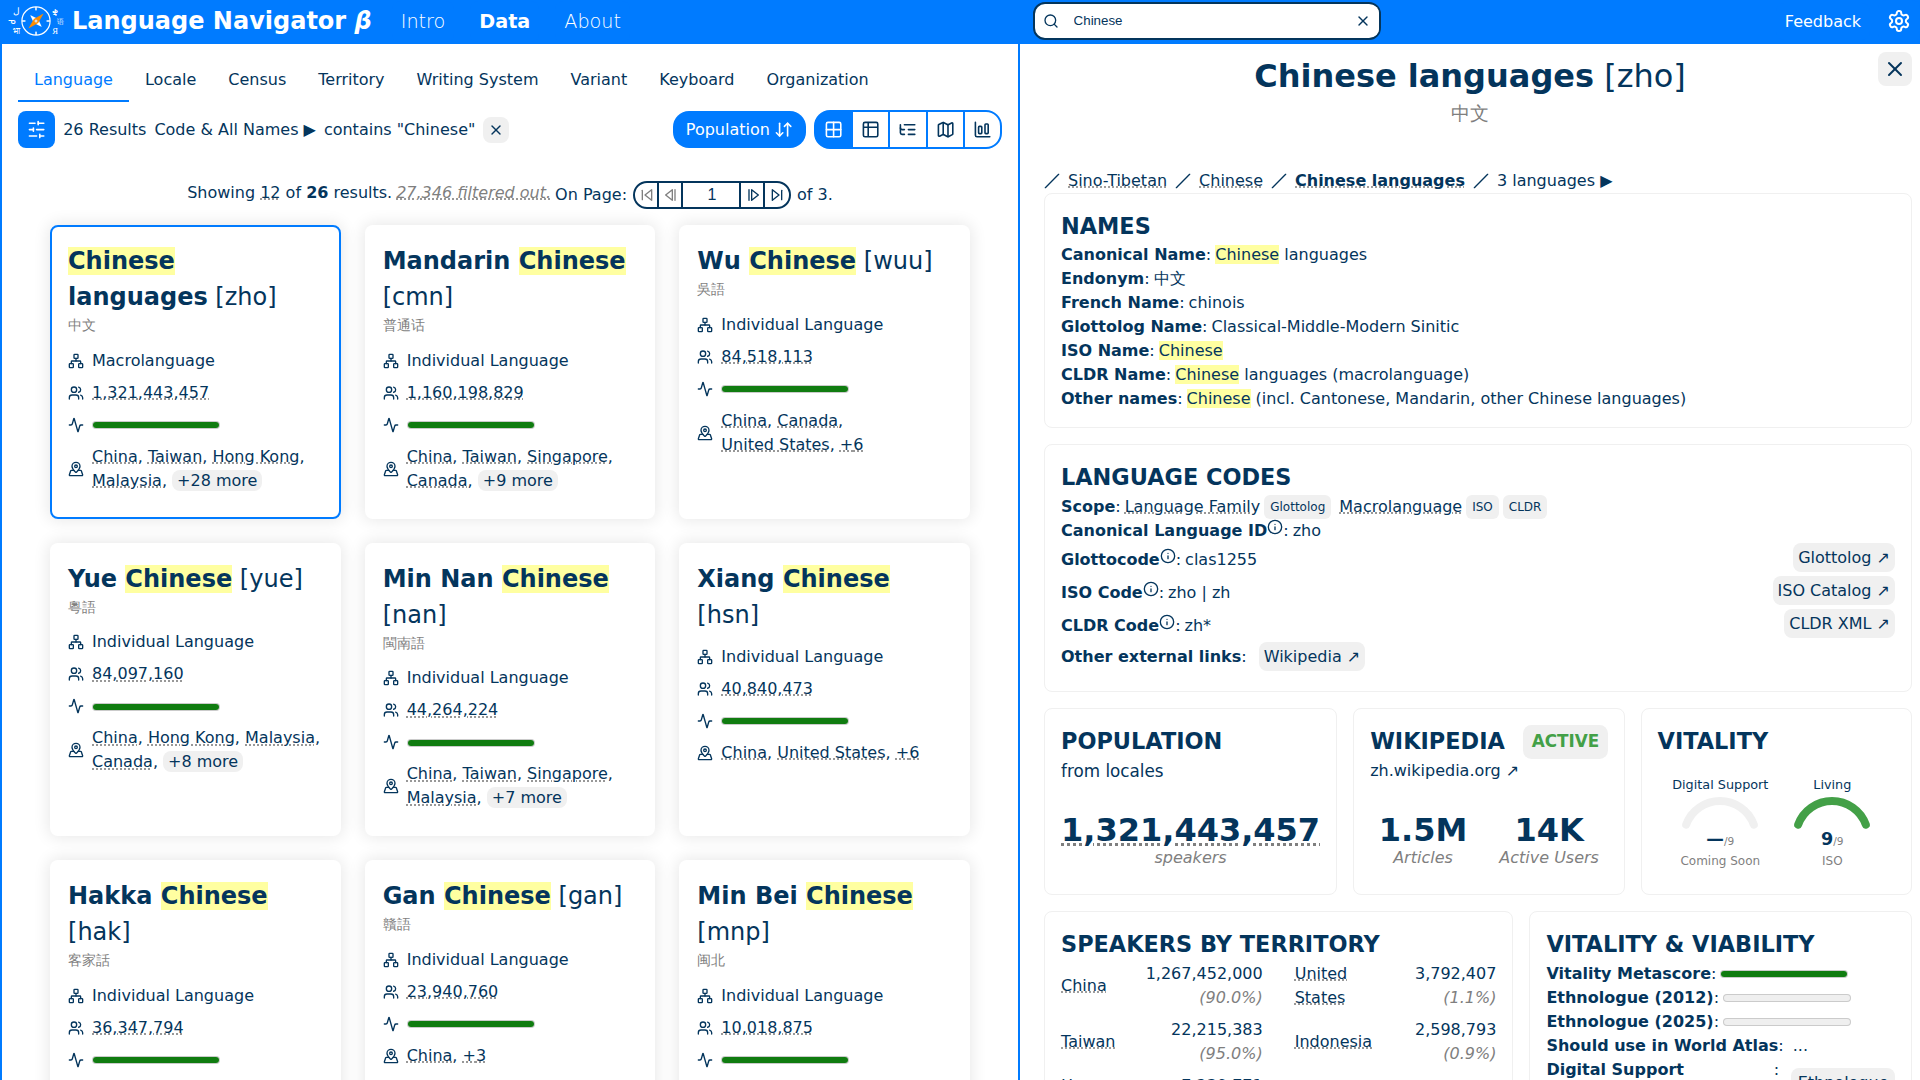
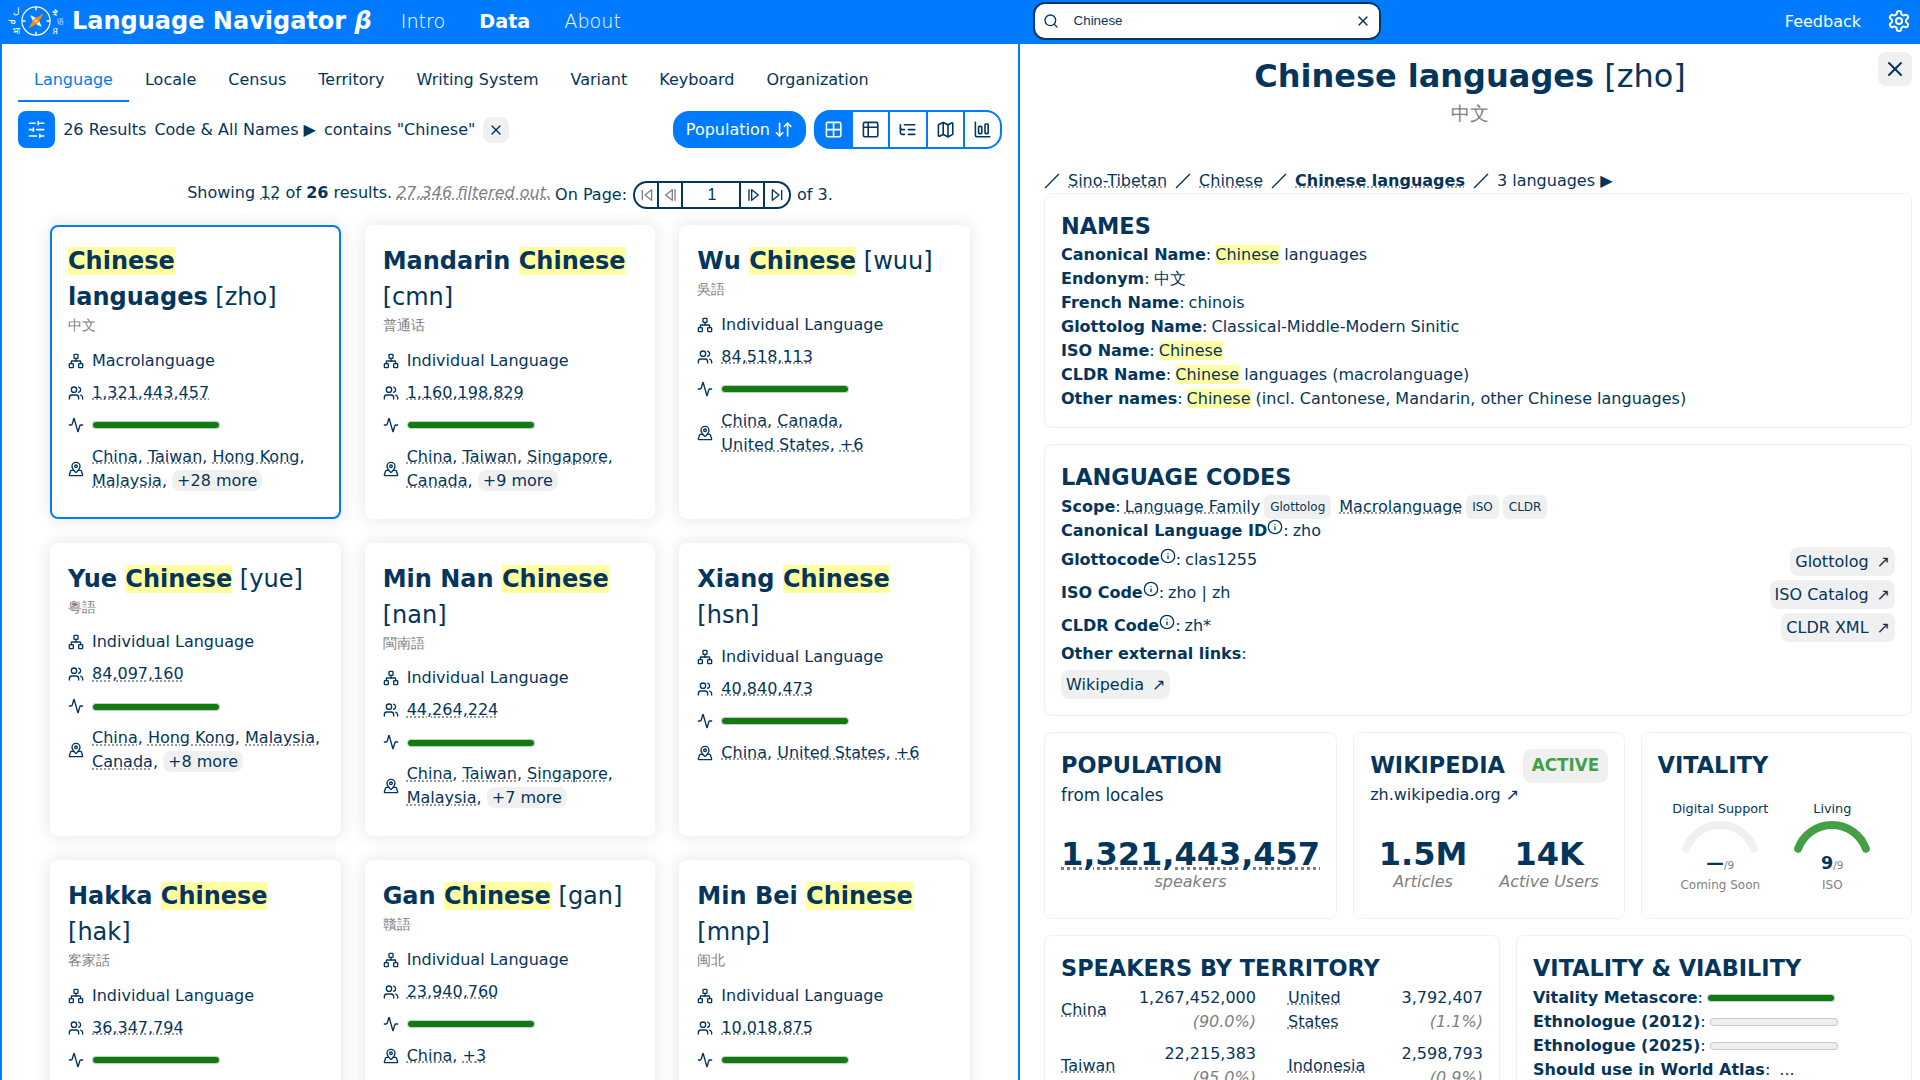
Add entry for user survey (#712)
Fixes #676

Summary: Added a survey prompt to the feedback form following the design
document.

### Changes

- User experience
- Added a "Take 2-min Survey" button to the feedback dialog that opens a
Google Form in a new tab- Logical changes
- Restructured the feedback form to show the survey prompt first, with
the existing email form below
- Logical Changes
  - Changed each button to LinkButton from HoverableButton
- Data
  - None
- Refactors
  - Moved the email body after the OR to a separate file
  - Updated LinkButton Styling

Out of scope/Future work: Tracking whether users have already completed
the survey

### Test Plan and Screenshots

How to test the changes in this PR: Go to the lang nav site and open the
feedback button. Test that clicking on the survey button takes you to a
google form and test that sending an email still works the same.

| Description of Changes | Screenshot Before | Screenshot After |
| ---------------------- | ----------------- | ---------------- |
| Feedback Form Changed to follow design document | <img width="324"
height="322" alt="image"
src="https://github.com/user-attachments/assets/e1148eaf-cd33-446c-8c6e-ccd6ef7cbe84"
/> | <img width="327" height="497" alt="image"
src="https://github.com/user-attachments/assets/64b080c9-7ddd-417b-b005-46c1d65c188e"
/> |

# Checklist

Feel free to check off or just delete items in this section as you have
completed them.

## Summary

- [X] Clear description of what and why
[…]

Pull request: Add entry for user survey
Fixes #676

Summary: Added a survey prompt to the feedback form following the design document. 

### Changes

- User experience
  - Added a "Take 2-min Survey" button to the feedback dialog that opens a Google Form in a new tab- Logical changes
  - Restructured the feedback form to show the survey prompt first, with the existing email form below
- Logical Changes
  - None
- Data
  - None
- Refactors
  - None

Out of scope/Future work: Tracking whether users have already completed the survey

### Test Plan and Screenshots

How to test the changes in this PR: Go to the lang nav site and open the feedback button. Test that clicking on the survey button takes you to a google form and test that sending an email still works the same.

| Description of Changes | Screenshot Before | Screenshot After |
| ---------------------- | ----------------- | ---------------- |
|       Feedback Form Changed to follow design document      |     <img width="324" height="322" alt="image" src="https://github.com/user-attachments/assets/e1148eaf-cd33-446c-8c6e-ccd6ef7cbe84" />     |          <img width="327" height="497" alt="image" src="https://github.com/user-attachments/assets/64b080c9-7ddd-417b-b005-46c1d65c188e" />       |

# Checklist

Feel free to check off or just delete items in this section as you have completed them.

## Summary

- [X] Clear description of what and why
- [X] Scope kept focused; note follow-ups if any
- [X] Set yourself as assignee
[…]

diff --git a/src/features/feedback/FeedbackForm.tsx b/src/features/feedback/FeedbackForm.tsx
@@ -1,102 +1,36 @@
-import { MailIcon } from 'lucide-react';
-import { useState } from 'react';
+import { MessageSquareTextIcon } from 'lucide-react';
 
-import HoverableButton from '@features/layers/hovercard/HoverableButton';
 import PopupCard from '@features/layers/popupcard/PopupCard';
 
-import { getFeedbackEmailBody } from './getFeedbackEmailBody';
+import LinkButton from '@shared/ui/LinkButton';
 
-const FEEDBACK_EMAIL = '[email redacted]';
+import { FeedbackEmailForm } from './FeedbackEmailForm';
+
+const SURVEY_LINK = 'https://forms.gle/a4Zr2dkdc1TiEAdq6';
 
 export function FeedbackForm() {
-  const [type, setType] = useState('General feedback');
-  const [message, setMessage] = useState('');
-
-  const handleSubmit = () => {
-    const subject = `[LangNav Feedback] ${type}`;
-    const body = getFeedbackEmailBody({ type, message });
-
-    const mailtoUrl =
-      `mailto:${FEEDBACK_EMAIL}` +
-      `?subject=${encodeURIComponent(subject)}` +
-      `&body=${encodeURIComponent(body)}`;
-
-    window.location.href = mailtoUrl;
-  };
-
   return (
     <PopupCard
       buttonLabel="Feedback"
       buttonClassName="primary"
       buttonStyle={{ padding: '0.5em' }}
       description="Submit feedback to the LangNav team"
-      title="Send feedback"
+      title="Shape the future of LangNav"
       body={
-        <div style={{ display: 'flex', flexDirection: 'column', gap: '1em', width: '300px' }}>
-          <div style={{ display: 'flex', flexDirection: 'column', gap: '0.25em' }}>
-            <label style={{ fontWeight: 500, color: 'var(--color-text-secondary)' }}>Type</label>
-            <select
-              value={type}
-              onChange={(e) => setType(e.target.value)}
-              style={{
-                padding: '0.5em',
-                border: '1px solid var(--color-shadow)',
-                borderRadius: '0.5em',
-                color: 'var(--color-text)',
-                backgroundColor: 'var(--color-background)',
-              }}
-            >
-              <option>Bug</option>
-              <option>Data issue</option>
-              <option>Feature request</option>
-              <option>General feedback</option>
-            </select>
+        <div style={{ display: 'flex', flexDirection: 'column', gap: '0.25em', width: '300px' }}>
+          <label>Tell us about your goals, rate our data, and help us build better futures.</label>
+          <LinkButton href={SURVEY_LINK} title="Submit a Google survey">
+            <MessageSquareTextIcon display="block" size="1em" />
+            Take 2-min Survey
+          </LinkButton>
+          <div style={{ display: 'flex', alignItems: 'center', gap: '0.5em' }}>
+            <hr style={{ flex: 1 }} />
+            <span>OR</span>
+            <hr style={{ flex: 1 }} />
           </div>
-
-          <div style={{ display: 'flex', flexDirection: 'column', gap: '0.25em' }}>
-            <label style={{ fontWeight: 500, color: 'var(--color-text-secondary)' }}>Message</label>
-            <textarea
-              rows={5}
-              value={message}
-              onChange={(e) => setMessage(e.target.value)}
-              placeholder="What did you notice or suggest?"
-              style={{
-                padding: '0.5em',
-                color: 'var(--color-text)',
-                backgroundColor: 'var(--color-background)',
-                border: '1px solid var(--color-shadow)',
-                borderRadius: '0.5em',
-                resize: 'vertical',
-              }}
-            />
-          </div>
+          <FeedbackEmailForm />
         </div>
       }
-      ctas={[
-        <HoverableButton
-          key="submit"
-          buttonType="submit"
-          className={message.trim() ? 'primary' : ''}
-          onClick={() => message.trim() && handleSubmit()}
-          hoverContent={
-            message.trim()
-              ? 'Open your email client to send this feedback'
-              : 'Please enter a message'
-          }
-          style={{
-            backgroundColor: message.trim()
-              ? 'var(--color-button-primary)'
-              : 'var(--color-button-secondary)',
-            color: message.trim() ? 'var(--color-text-on-color)' : 'var(--color-text-secondary)',
-            display: 'flex',
-            alignItems: 'center',
-            gap: '0.5em',
-          }}
-        >
-          Open email
-          <MailIcon display="block" size="1em" />
-        </HoverableButton>,
-      ]}
     />
   );
 }

diff --git a/src/features/feedback/FeedbackEmailForm.tsx b/src/features/feedback/FeedbackEmailForm.tsx
@@ -1,0 +1,69 @@
+import { MailIcon } from 'lucide-react';
+import { useState } from 'react';
+
+import LinkButton from '@shared/ui/LinkButton';
+
+import { getFeedbackEmailBody } from './getFeedbackEmailBody';
+
+const FEEDBACK_EMAIL = '[email redacted]';
+
+export function FeedbackEmailForm() {
+  const [type, setType] = useState('General feedback');
+  const [message, setMessage] = useState('');
+
+  const subject = `[LangNav Feedback] ${type}`;
+  const body = getFeedbackEmailBody({ type, message });
+
+  const mailtoUrl =
+    `mailto:${FEEDBACK_EMAIL}` +
+    `?subject=${encodeURIComponent(subject)}` +
+    `&body=${encodeURIComponent(body)}`;
+
+  return (
+    <div>
+      <div style={{ display: 'flex', flexDirection: 'column' }}>
+        <label>Report a specific Issue</label>
+      </div>
+      <div style={{ display: 'flex', flexDirection: 'column', gap: '0.25em' }}>
+        <label style={{ fontWeight: 500, color: 'var(--color-text-secondary)' }}>Type</label>
+        <select
+          value={type}
+          onChange={(e) => setType(e.target.value)}
+          style={{
+            padding: '0.5em',
+            border: '1px solid var(--color-shadow)',
+            borderRadius: '0.5em',
+            color: 'var(--color-text)',
+            backgroundColor: 'var(--color-background)',
+          }}
+        >
+          <option>Bug</option>
+          <option>Data issue</option>
+          <option>Feature request</option>
+          <option>General feedback</option>
+        </select>
+      </div>
+      <div style={{ display: 'flex', flexDirection: 'column', gap: '0.25em' }}>
+        <label style={{ fontWeight: 500, color: 'var(--color-text-secondary)' }}>Message</label>
+        <textarea
+          rows={5}
+          value={message}
+          onChange={(e) => setMessage(e.target.value)}
+          placeholder="What did you notice or suggest?"
+          style={{
+            padding: '0.5em',
+            color: 'var(--color-text)',
+            backgroundColor: 'var(--color-background)',
+            border: '1px solid var(--color-shadow)',
+            borderRadius: '0.5em',
+            resize: 'vertical',
+          }}
+        />
+      </div>
+      <LinkButton href={mailtoUrl} title="Send us an email!">
+        <MailIcon display="block" size="1em" />
+        Open email
+      </LinkButton>
+    </div>
+  );
+}

diff --git a/src/shared/ui/LinkButton.tsx b/src/shared/ui/LinkButton.tsx
@@ -10,13 +10,22 @@ type Props = {
  */
 export default function LinkButton({ href, children, title }: React.PropsWithChildren<Props>) {
   return (
-    <a href={href} target="_blank" rel="noopener noreferrer" title={title ?? href}>
+    // added textDecoration to be none to avoid black underline when hovering over text on the button
+    <a
+      href={href}
+      target="_blank"
+      rel="noopener noreferrer"
+      title={title ?? href}
+      style={{ textDecoration: 'none' }}
+    >
       <button
         role="link"
         style={{
-          marginLeft: '0.5em',
-          marginBottom: '0.25em',
           padding: children !== '' ? '0.25em' : '0',
+          alignItems: 'center',
+          gap: '0.5em',
+          display: 'flex',
+          marginTop: '0.25em',
         }}
       >
         {children} <span aria-hidden={true}>↗</span>